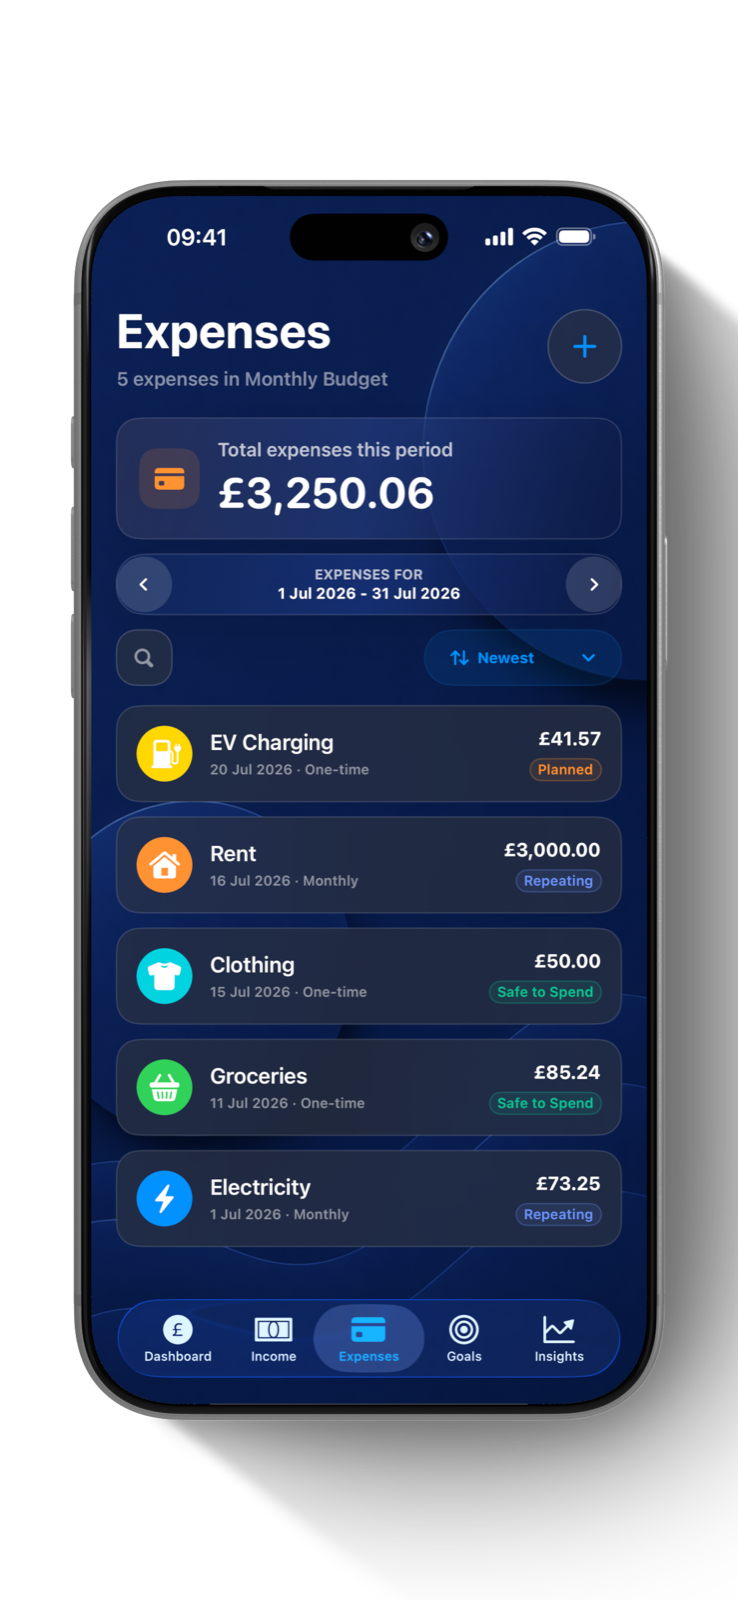
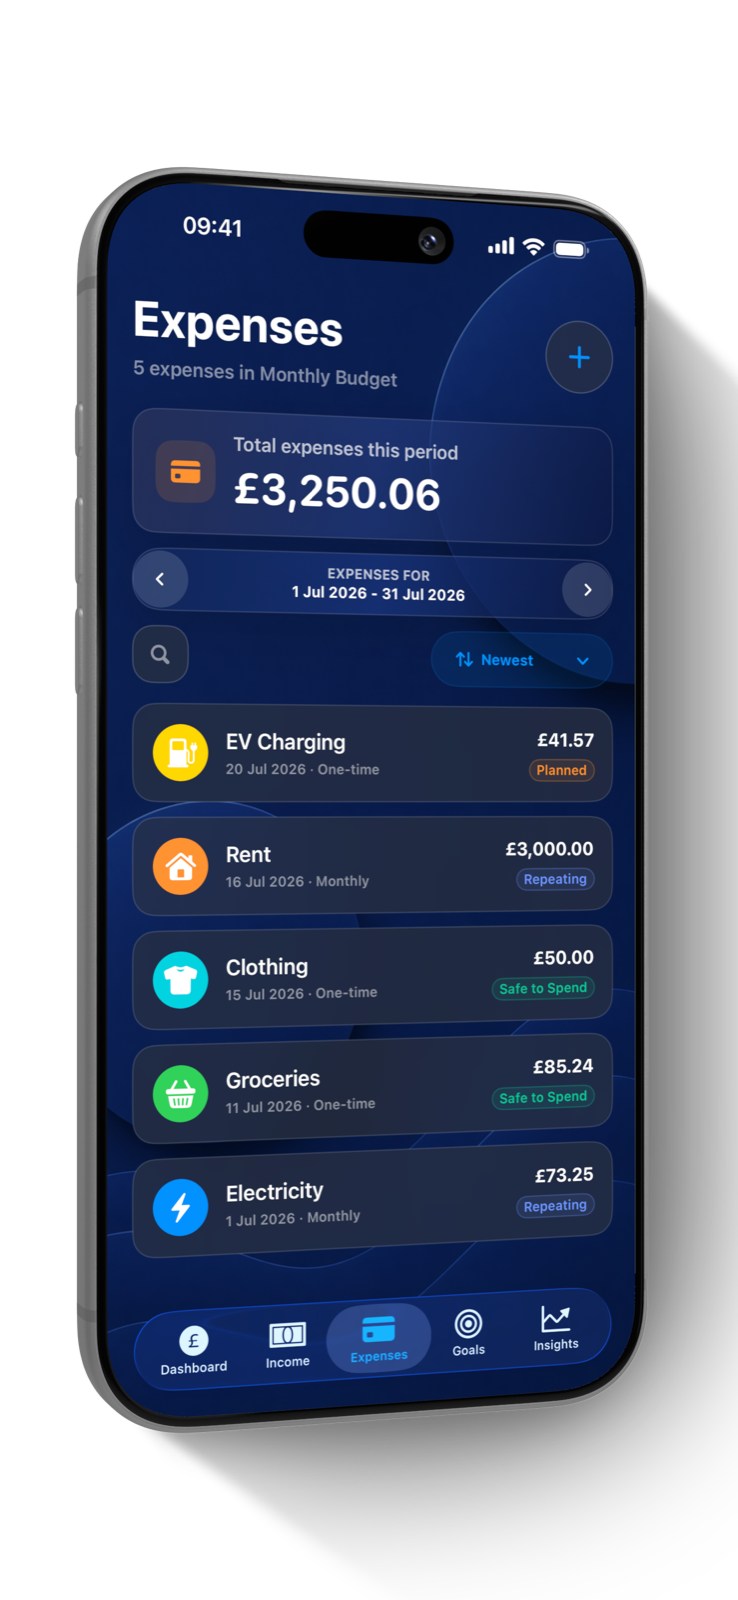
Refresh homepage with current device mockups

Changed region(s): [[0.0935, 0.0938, 1.0, 0.9375]]

diff --git a/index.html b/index.html
@@ -54,7 +54,7 @@
   </script>
   <script src="assets/theme.js?v=4"></script>
   <link rel="stylesheet" href="assets/site.css?v=6">
-  <link rel="stylesheet" href="assets/home.css?v=20">
+  <link rel="stylesheet" href="assets/home.css?v=21">
 </head>
 <body class="home-page">
   <a class="skip-link" href="#main-content">Skip to content</a>
@@ -106,7 +106,7 @@
         </div>
 
         <figure class="hero-visual">
-          <img src="assets/iphone-dashboard.png" alt="SiBalance dashboard showing a monthly budget and Safe to Spend allowance" width="830" height="1800" fetchpriority="high">
+          <img src="assets/iphone-dashboard.png?v=2" alt="SiBalance dashboard showing a monthly budget and Safe to Spend allowance" width="830" height="1800" fetchpriority="high">
         </figure>
       </div>
     </section>
@@ -139,7 +139,7 @@
           </ul>
         </div>
         <figure class="feature-visual">
-          <img src="assets/iphone-dashboard.png" alt="SiBalance dashboard with the Safe to Spend ring and allowance" width="830" height="1800" loading="lazy">
+          <img src="assets/iphone-dashboard.png?v=2" alt="SiBalance dashboard with the Safe to Spend ring and allowance" width="830" height="1800" loading="lazy">
         </figure>
       </div>
     </section>
@@ -157,7 +157,7 @@
           </ul>
         </div>
         <figure class="feature-visual feature-visual-ipad">
-          <img src="assets/ipad-insights.png" alt="SiBalance Insights on iPad showing Briefing, Forecast, Patterns and Breakdown" width="760" height="1157" loading="lazy">
+          <img src="assets/ipad-insights.png?v=2" alt="SiBalance Insights on iPad showing Briefing, Forecast, Patterns and Breakdown" width="919" height="1400" loading="lazy">
         </figure>
       </div>
     </section>
@@ -175,7 +175,7 @@
           </ul>
         </div>
         <figure class="feature-visual feature-visual-ipad">
-          <img src="assets/ipad-goals.png" alt="SiBalance Goals on iPad showing five savings goals and their progress" width="760" height="1157" loading="lazy">
+          <img src="assets/ipad-goals.png?v=2" alt="SiBalance Goals on iPad showing five savings goals and their progress" width="919" height="1400" loading="lazy">
         </figure>
       </div>
     </section>
@@ -193,8 +193,8 @@
           </ul>
         </div>
         <figure class="feature-visual feature-visual-stack">
-          <img class="feature-screen-back" src="assets/feature-income.png" alt="SiBalance Income screen showing manual and repeating transactions" width="738" height="1600" loading="lazy">
-          <img class="feature-screen-front" src="assets/feature-expenses.png" alt="SiBalance Expenses screen showing manual and repeating transactions" width="738" height="1600" loading="lazy">
+          <img class="feature-screen-back" src="assets/feature-income.png?v=2" alt="SiBalance Income screen showing manual and repeating transactions" width="738" height="1600" loading="lazy">
+          <img class="feature-screen-front" src="assets/feature-expenses.png?v=2" alt="SiBalance Expenses screen showing manual and repeating transactions" width="738" height="1600" loading="lazy">
         </figure>
       </div>
     </section>
@@ -211,8 +211,8 @@
             <li>Siri support</li>
           </ul>
         </div>
-        <figure class="feature-visual">
-          <img src="assets/feature-widgets.png?v=4" alt="SiBalance Home Screen widgets showing Safe to Spend, balance and active Goals" width="760" height="1647" loading="lazy">
+        <figure class="feature-visual feature-visual-ipad">
+          <img src="assets/ipad-widgets.png?v=1" alt="SiBalance widgets on iPad showing Safe to Spend, balances and active Goals" width="919" height="1400" loading="lazy">
         </figure>
       </div>
     </section>
@@ -243,7 +243,8 @@
           <p>The compact iPhone experience stays focused and portrait-first, while iPad adds sidebar navigation, larger adaptive cards and support for portrait and landscape.</p>
         </div>
         <figure class="device-visual">
-          <img src="assets/ipad-dashboard.png?v=2" alt="SiBalance Dashboard on iPad with sidebar navigation, budget cards, Safe to Spend and Goals progress" width="1116" height="1699" loading="lazy">
+          <img class="device-image-dark" src="assets/ipad-dashboard.png?v=3" alt="SiBalance Dashboard on iPad in dark mode with sidebar navigation, Safe to Spend and Goals progress" width="1116" height="1700" loading="lazy">
+          <img class="device-image-light" src="assets/ipad-dashboard-light.png?v=1" alt="SiBalance Dashboard on iPad in the Grove light theme with sidebar navigation, Safe to Spend and Goals progress" width="1116" height="1700" loading="lazy">
         </figure>
       </div>
     </section>

diff --git a/assets/home.css b/assets/home.css
@@ -580,17 +580,31 @@ html[data-theme="light"] .feature-visual img {
   width: min(100%, 520px);
   margin: 0;
   justify-self: center;
+  display: grid;
 }
 
 .device-visual img {
+  grid-area: 1 / 1;
   width: 100%;
   height: auto;
   display: block;
   filter: drop-shadow(0 30px 48px rgba(0, 0, 0, 0.3));
 }
 
+.device-visual .device-image-light {
+  display: none;
+}
+
 html[data-theme="light"] .device-visual img {
   filter: none;
+}
+
+html[data-theme="light"] .device-visual .device-image-dark {
+  display: none;
+}
+
+html[data-theme="light"] .device-visual .device-image-light {
+  display: block;
 }
 
 .privacy-section {
